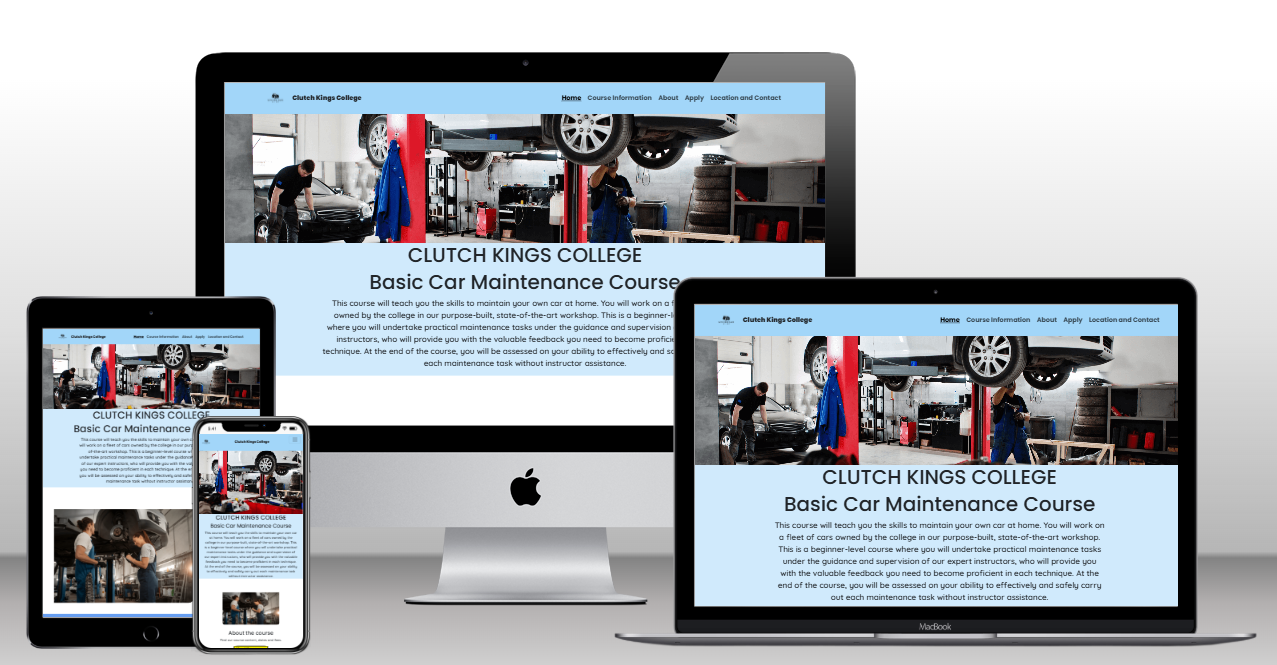
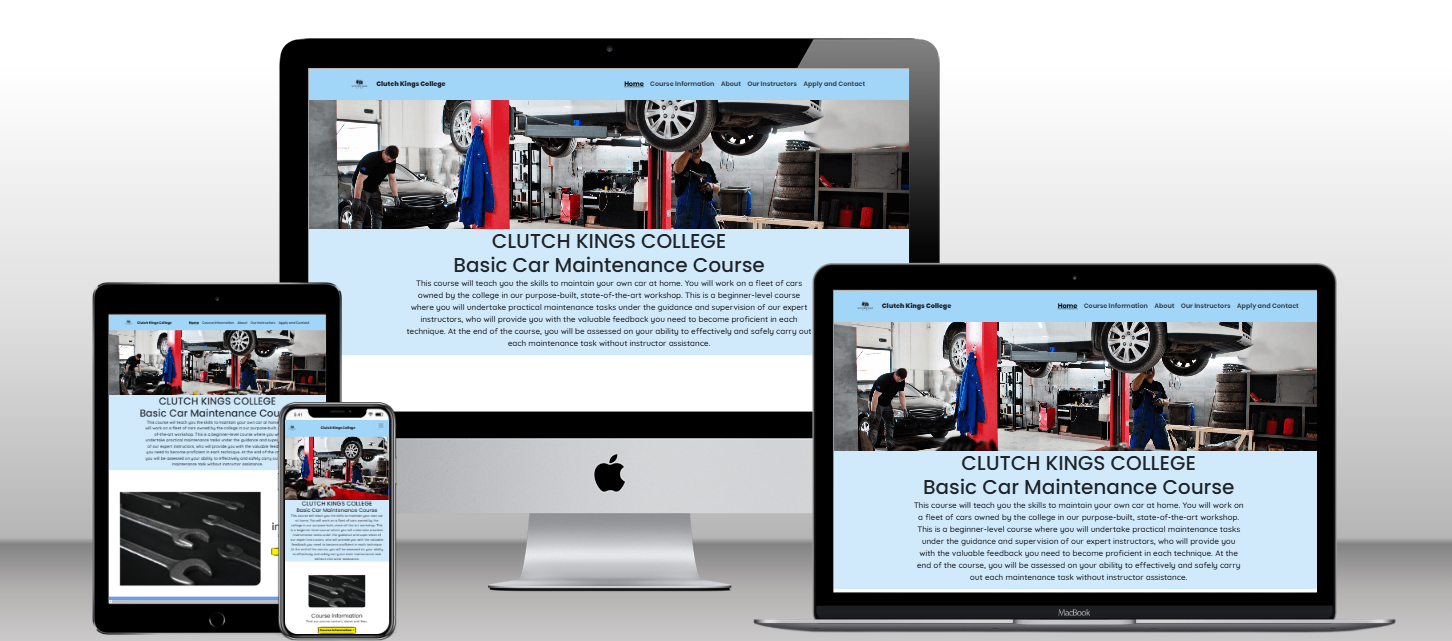
Add changes suggested by mentor

diff --git a/assets/css/style.css b/assets/css/style.css
@@ -97,6 +97,10 @@ button:hover {
 
 }
 
+.navbar-brand {
+    margin-right: 2px;
+}
+
 /* styles navbar logo only*/
 .logo {
   height: 50px; 
@@ -266,10 +270,15 @@ of the screen on small screens */
 
 /* COURSE SUMMARY TABLE */
 .table {
-    border: 1px solid black;
+    border: none;
     font-family: var(--body-font);
-    max-width: 80%;
+    max-width: 90%;
+    display: flex;
+    justify-content: center;
     margin-left: 10%;
+    padding-right: 10%;
+    padding-bottom: 2%;
+    padding-top: 2%;
 }
 
 #course-summary-table {
@@ -340,7 +349,15 @@ form {
 
 #submit-button {
     margin-top: 2%;
+    margin-bottom: 2%;
+    background-color: var(--light-yellow);
+    color: black;
+    font-family: var(--heading-font);
+    border: 3px solid black;
+    border-radius: 10%;
 }
+
+    
 
 /* CONTACT US SECTION */
 /* targets font awesome icons - makes them bigger and spaced away from the text */
@@ -396,6 +413,12 @@ form {
 To get this to work, had to target i element not a element as originally thought*/
 i:hover {
     color: var(--anti-flash-white);
+}
+
+.footer-text {
+    background-color: var(--azure-blue);
+    text-align: center;
+    margin-bottom: 0;
 }
 
 /* MEDIA QUERIES */
@@ -602,9 +625,9 @@ i:hover {
 }
 
     .table {
-        border: 1px solid black;
+        border: none;
         font-family: var(--body-font);
-        max-width: 80%;
+        max-width: 90%;
         margin-left: 10%;
         font-size: 20px;
     }

diff --git a/404.html b/404.html
@@ -92,8 +92,8 @@
                     aria-label="Visit our Instagram page (opens in a new tab)"><i class="fa-brands fa-instagram"></i></a></li>
             <li><a href="https://x.com/?lang=en" target="_blank" rel="noopener"
                     aria-label="Visit our X page (opens in a new tab)"><i class="fa-brands fa-x-twitter"></i></i></a></li>
-            <h6>Copyright © 2025 Clutch Kings College</h6>
         </ul>
+        <h6 class="footer-text">Copyright © 2025 Clutch Kings College</h6>
     </footer>
     <!--Bootstrap JS-->
     <script src="https://cdn.jsdelivr.net/npm/bootstrap@5.3.3/dist/js/bootstrap.bundle.min.js"

diff --git a/about.html b/about.html
@@ -165,8 +165,8 @@
                     aria-label="Visit our Instagram page (opens in a new tab)"><i class="fa-brands fa-instagram"></i></a></li>
             <li><a href="https://x.com/?lang=en" target="_blank" rel="noopener"
                     aria-label="Visit our X page (opens in a new tab)"><i class="fa-brands fa-x-twitter"></i></a></li>
-            <h6>Copyright © 2025 Clutch Kings College</h6>
         </ul>
+        <h6 class="footer-text">Copyright © 2025 Clutch Kings College</h6>
     </footer>
 
 

diff --git a/apply-contact.html b/apply-contact.html
@@ -154,8 +154,8 @@
                     aria-label="Visit our Instagram page (opens in a new tab)"><i class="fa-brands fa-instagram"></i></a></li>
             <li><a href="https://x.com/?lang=en" target="_blank" rel="noopener"
                     aria-label="Visit our X page (opens in a new tab)"><i class="fa-brands fa-x-twitter"></i></a></li>
-            <h6>Copyright © 2025 Clutch Kings College</h6>
         </ul>
+        <h6 class="footer-text">Copyright © 2025 Clutch Kings College</h6>
     </footer>
 
 

diff --git a/course-information.html b/course-information.html
@@ -246,8 +246,8 @@
                     aria-label="Visit our Instagram page (opens in a new tab)"><i class="fa-brands fa-instagram"></i></a></li>
             <li><a href="https://x.com/?lang=en" target="_blank" rel="noopener"
                     aria-label="Visit our X page (opens in a new tab)"><i class="fa-brands fa-x-twitter"></i></a></li>
-            <h6>Copyright © 2025 Clutch Kings College</h6>
         </ul>
+        <h6 class="footer-text">Copyright © 2025 Clutch Kings College</h6>
     </footer>
 
 

diff --git a/index.html b/index.html
@@ -177,8 +177,8 @@
                     aria-label="Visit our Instagram page (opens in a new tab)"><i class="fa-brands fa-instagram"></i></a></li>
             <li><a href="https://x.com/?lang=en" target="_blank" rel="noopener"
                     aria-label="Visit our X page (opens in a new tab)"><i class="fa-brands fa-x-twitter"></i></a></li>
-            <h6>Copyright © 2025 Clutch Kings College</h6>
         </ul>
+        <h6 class="footer-text">Copyright © 2025 Clutch Kings College</h6>
     </footer>
 
 

diff --git a/thank-you.html b/thank-you.html
@@ -99,8 +99,8 @@
                     aria-label="Visit our Instagram page (opens in a new tab)"><i class="fa-brands fa-instagram"></i></a></li>
             <li><a href="https://x.com/?lang=en" target="_blank" rel="noopener"
                     aria-label="Visit our X page (opens in a new tab)"><i class="fa-brands fa-x-twitter"></i></a></li>
-            <h6>Copyright © 2025 Clutch Kings College</h6>
         </ul>
+        <h6 class="footer-text">Copyright © 2025 Clutch Kings College</h6>
     </footer>
 
 

diff --git a/meet-instructors.html b/meet-instructors.html
@@ -220,8 +220,8 @@
             <li><a href="https://x.com/?lang=en" target="_blank" rel="noopener"
                     aria-label="Visit our X page (opens in a new tab)"><i class="fa-brands fa-x-twitter"></i></a>
             </li>
-            <h6>Copyright © 2025 Clutch Kings College</h6>
         </ul>
+        <h6 class="footer-text">Copyright © 2025 Clutch Kings College</h6>
     </footer>
 
 

diff --git a/README.md b/README.md
@@ -12,9 +12,8 @@
 4. [User Experience](#user-experience)
     * [Strategy](#strategy)
          + [Site Owner Goals](#site-owner-goals)
-         + [User Goals](#user-goals)
+         + [User Goals, Expectations and Requirements](#user-goals-expectations-and-requirements)
          + [Site Manager Goals](#site-manager-goals)
-         + [User Expectations and Requirements](#user-expectations-and-requirements)
          + [User Stories](#user-stories)
     * [Scope](#scope)
         + [Initial Stage Features](#initial-stage-features)
@@ -22,7 +21,7 @@
     * [Structure](#structure)  
         + [Wireframes](#wireframes)
    * [Skeleton](#skeleton)  
-        + [Structure and Layout](#structure-and-layout)
+        + [Layout](#layout)
           + [Information Architecture](#infomation-architecture)
             + [Navigation Bar](#navigation-bar)
             + [Sub-navigation Bar](#sub-navigation-bar)
